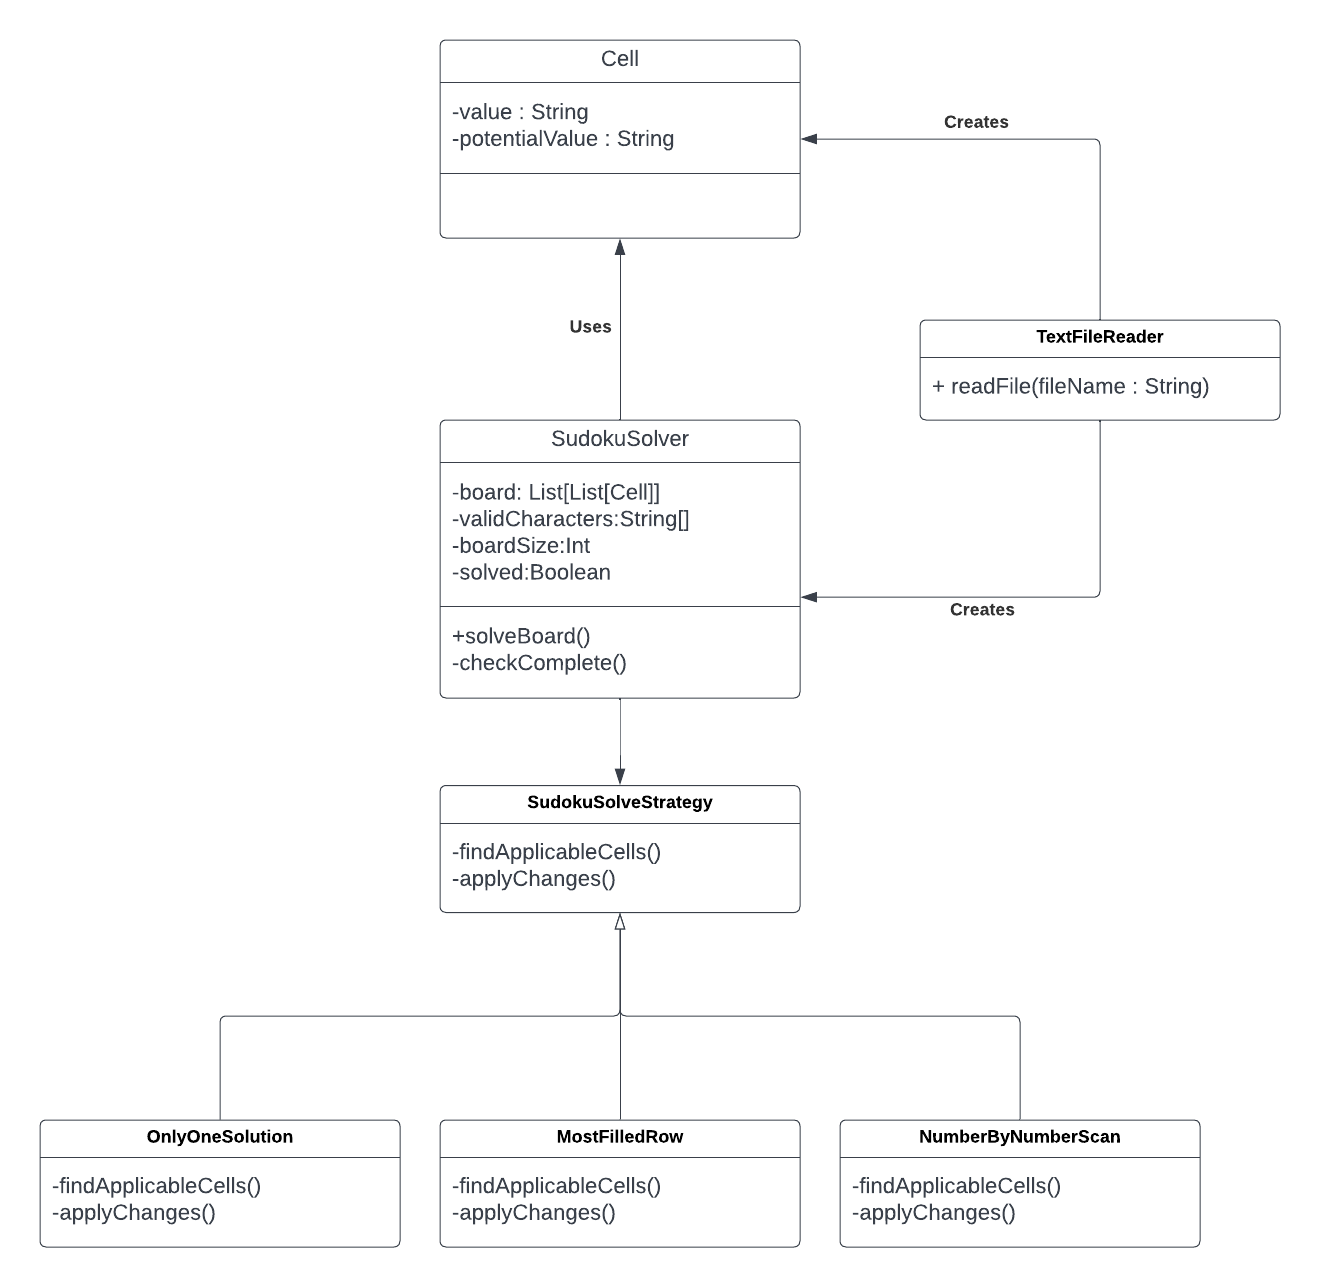
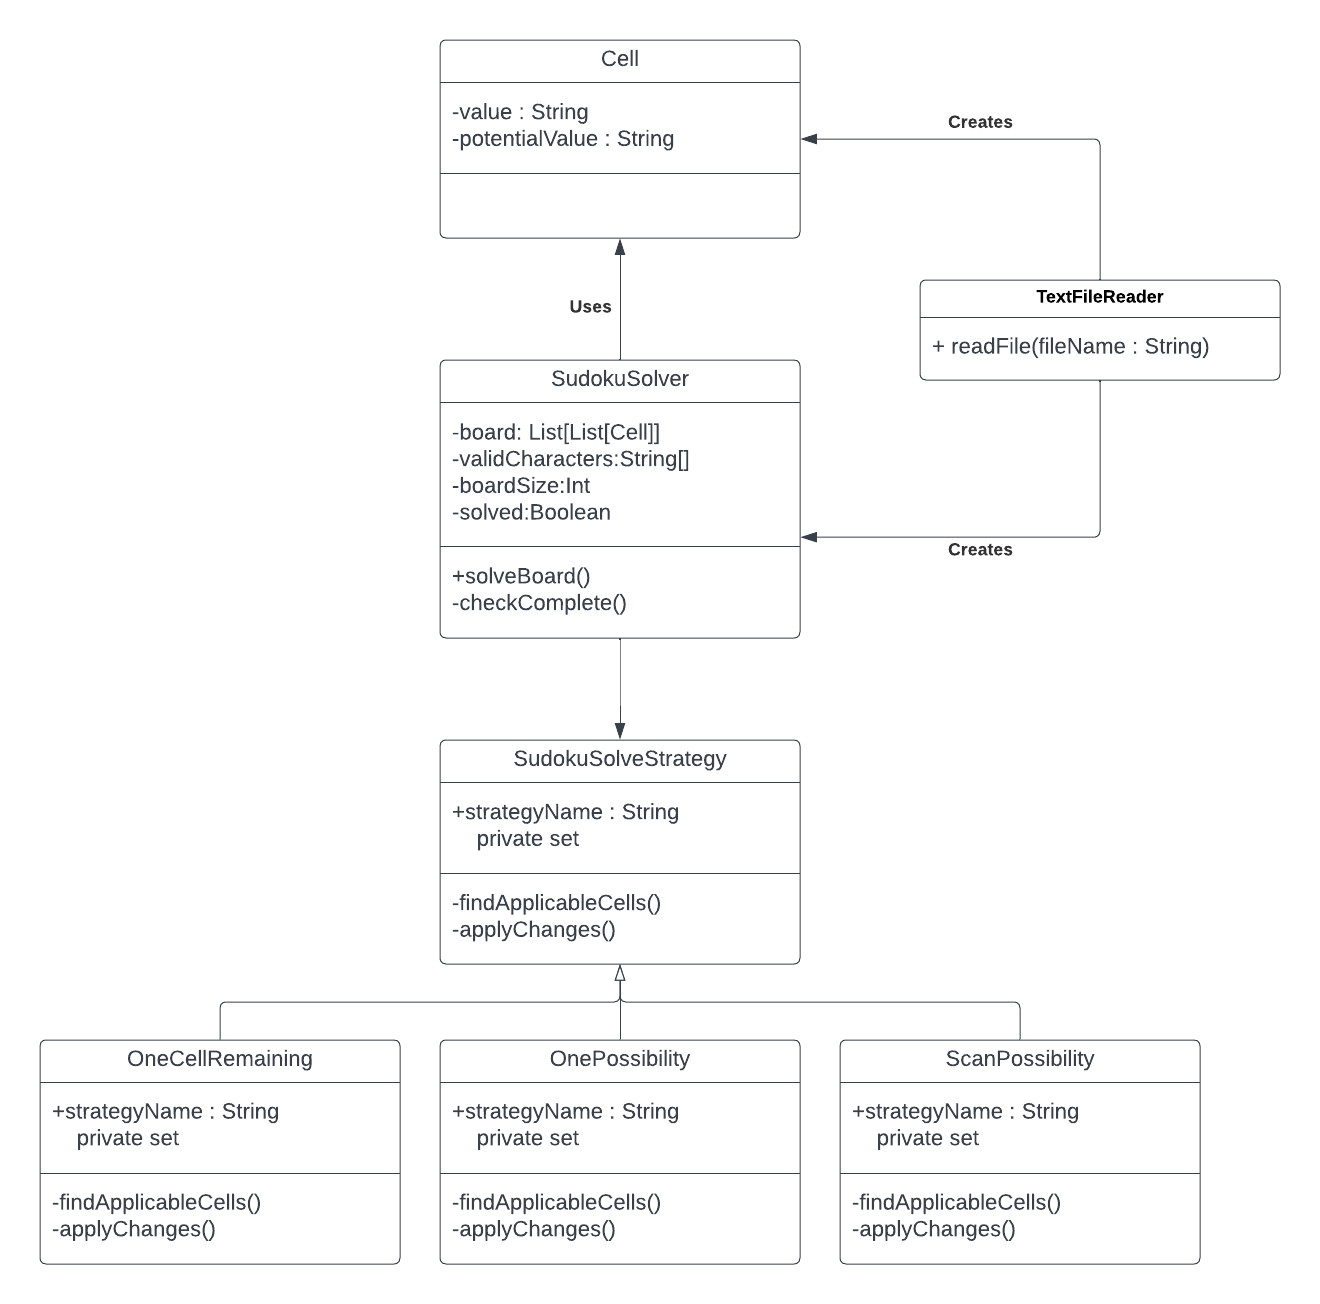
more accurate names for strategies in UML

diff --git a/SudokuSolver/src/main/kotlin/OneCellRemaining.kt b/SudokuSolver/src/main/kotlin/OneCellRemaining.kt
@@ -1,5 +1,5 @@
-class OnlyOnePossibility : SudokuSolveStrategy() {
-    override val strategyName = "OnlyOnePossibility"
+class OneCellRow : SudokuSolveStrategy() {
+    override val strategyName = "OneCellRow"
     override fun findApplicableCells(board: List<List<Cell>>, validSymbols: List<String>): List<Cell> {
         val cellsToReturn = mutableListOf<Cell>()
 
@@ -35,6 +35,7 @@ class OnlyOnePossibility : SudokuSolveStrategy() {
         for (cell in cells) {
             if (cell.potentialValues.size == 1) {
                 cell.value = cell.potentialValues[0]
+                cell.potentialValues = emptyList()
                 changeMade = true
             }
         }

diff --git a/SudokuSolver/src/main/kotlin/OnePossibility.kt b/SudokuSolver/src/main/kotlin/OnePossibility.kt
@@ -1,5 +1,5 @@
-class NumberByNumberScan : SudokuSolveStrategy() {
-    override val strategyName = "NumberByNumberScan"
+class OneCellColumn : SudokuSolveStrategy() {
+    override val strategyName = "OneCellColumn"
     override fun findApplicableCells(board: List<List<Cell>>, validSymbols: List<String>): List<Cell> {
         TODO("Not yet implemented")
     }

diff --git a/SudokuSolver/src/main/kotlin/ScanPotential.kt b/SudokuSolver/src/main/kotlin/ScanPotential.kt
@@ -1,5 +1,5 @@
-class MostFilledRow : SudokuSolveStrategy() {
-    override val strategyName = "MostFilledRow"
+class OneCellBlock : SudokuSolveStrategy() {
+    override val strategyName = "OneCellBlock"
     override fun findApplicableCells(board: List<List<Cell>>, validSymbols: List<String>): List<Cell> {
         TODO("Not yet implemented")
     }
